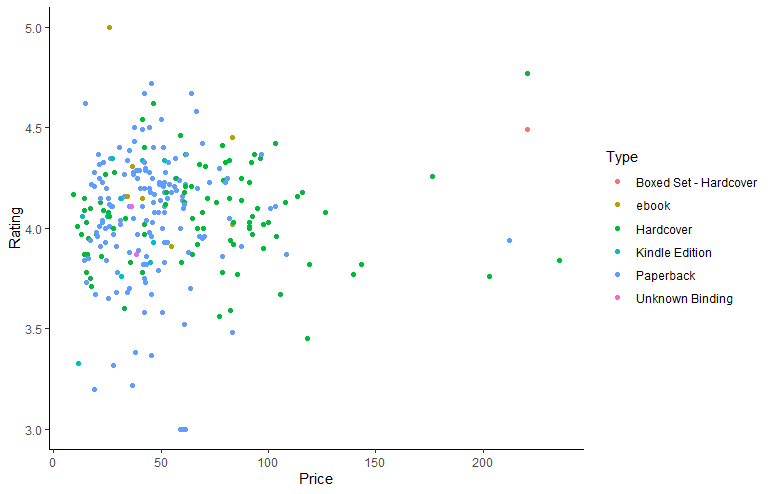
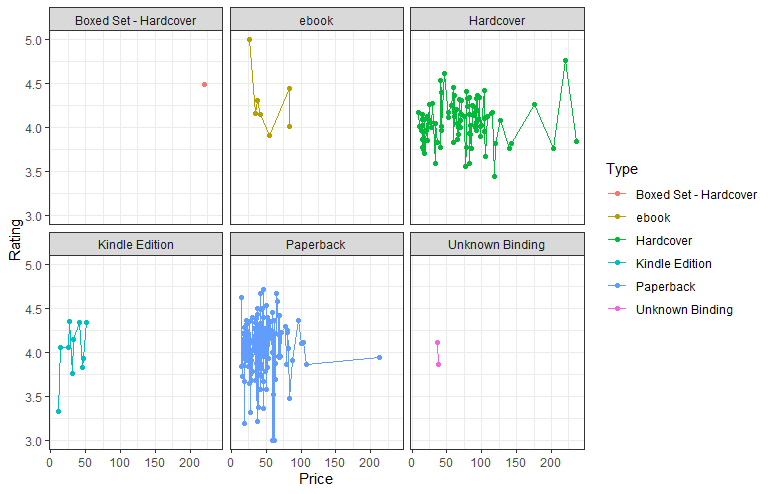
add

diff --git a/HW4_63130500035/HW4_63130500035.md b/HW4_63130500035/HW4_63130500035.md
@@ -346,8 +346,12 @@ Result:
 
 ### 2.) Graph show relation between price and rating.
 ```
-ggplot(data = comsci, mapping = aes(x = Price, y = Rating)) +
-  geom_point(aes(color = Type))
+ggplot(data = comsci,
+       mapping = aes(x = Price, y = Rating, color = Type)) +
+  geom_line() +
+  geom_point() +
+  facet_wrap(vars(Type)) +
+  theme_bw()
 ```
 Result:
 
